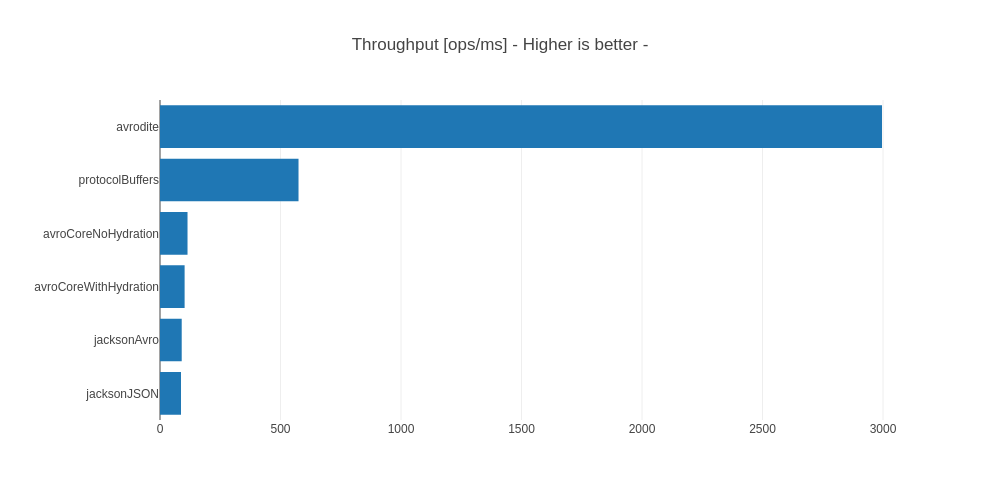
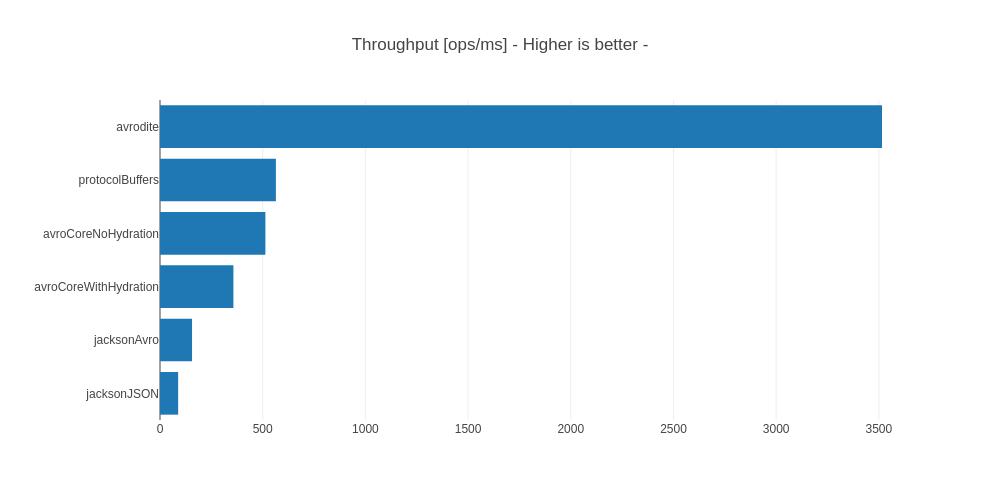
updated docs

diff --git a/avrodite-codec-avro-benchmarks/src/test/bench-tests/org/avrodite/avro/result/PlotResults.java b/avrodite-codec-avro-benchmarks/src/test/bench-tests/org/avrodite/avro/result/PlotResults.java
@@ -26,6 +26,7 @@ import lombok.Getter;
 import lombok.Setter;
 import lombok.SneakyThrows;
 import lombok.experimental.Accessors;
+import lombok.extern.slf4j.Slf4j;
 import org.apache.commons.io.IOUtils;
 import org.assertj.core.util.Files;
 import org.openqa.selenium.WebElement;
@@ -42,7 +43,7 @@ import tech.tablesaw.plotly.components.Margin;
 import tech.tablesaw.plotly.components.Page;
 import tech.tablesaw.plotly.traces.BarTrace;
 
-@Builder
+@Builder @Slf4j
 public class PlotResults {
 
   private List<String> inputFiles;
@@ -59,9 +60,10 @@ public class PlotResults {
   @SneakyThrows
   public static InputStream getPngPlot(FirefoxDriver firefoxDriver, File tempoDir, String page) {
     firefoxDriver.get("file://"+page);
+    log.info("{}", new File(tempoDir, "newplot.png").delete());
     WebElement webElement = firefoxDriver.findElementByCssSelector(".modebar > div:nth-child(1) > a");
     webElement.click();
-    WebDriverWait wait = new WebDriverWait(firefoxDriver, 1);
+    WebDriverWait wait = new WebDriverWait(firefoxDriver, 3);
     wait.until((driver) -> sneak().get(() -> new File(tempoDir, "newplot.png").exists()));
     return new FileInputStream(new File(tempoDir, "newplot.png"));
   }
@@ -128,7 +130,7 @@ public class PlotResults {
         String title = sb.toString();
         return new Pair<>(metric, create(title, table, "subject", metric.name));
       }).forEach(plot -> sneak().run(() -> {
-        String filePath = format("/tmp/%s.html", plot.key.name);
+        String filePath = format("/tmp/%s.html", file.getName());
         Page page = Page.pageBuilder(plot.value, "target").build();
         String output = page.asJavascript();
         try (Writer writer = new OutputStreamWriter(new FileOutputStream(new File(filePath)), StandardCharsets.UTF_8)) {
@@ -137,6 +139,7 @@ public class PlotResults {
         InputStream is = getPngPlot(firefoxDriver, tempoDir, filePath);
         FileOutputStream pngFile = new FileOutputStream(new File(format("/media/yassine/work/oss/avrodite/avrodite-pages/images/%s-%s.png", file.getName(), plot.key.name).toLowerCase()));
         IOUtils.copy(is, pngFile);
+        new File(filePath).delete();
       }));
   }
 

diff --git a/avrodite-pages/benchmarks.md b/avrodite-pages/benchmarks.md
@@ -50,11 +50,11 @@ The tests are available under the 'avrodite-codec-avro-benchmarks'.
 | Jackson JSON               | 90.34         | 89.97         | 2.52%         | 2.96%         |
 
 ##### Throughput (Test 1, Higher is better)
-![Alt text](./images/bench-results.json-throughput.png?raw=true&v=3 "Throughput")
+![Alt text](./images/bench-results.json-throughput.png?raw=true&v=9 "Throughput")
 
 
 ##### Throughput (Test 2, Higher is better)
-![Alt text](./images/bench-results-nullable-fields.json-throughput.png?raw=true&v=3 "Throughput")
+![Alt text](./images/bench-results-nullable-fields.json-throughput.png?raw=true&v=5 "Throughput")
 
 
 ##### Test Fixture (in JSON)
